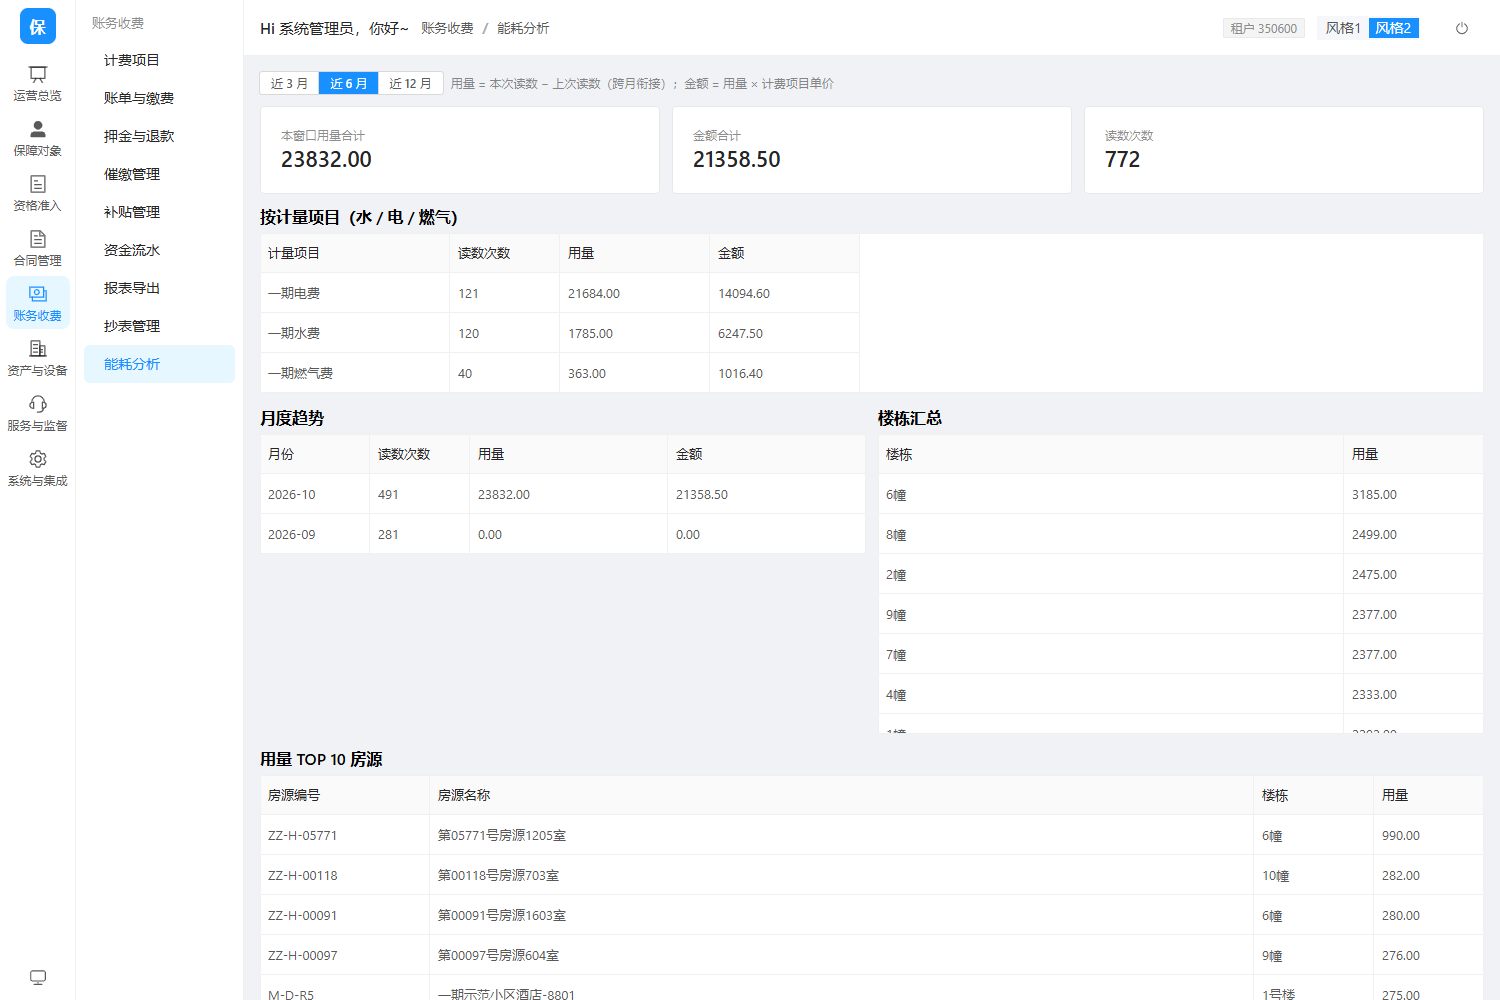
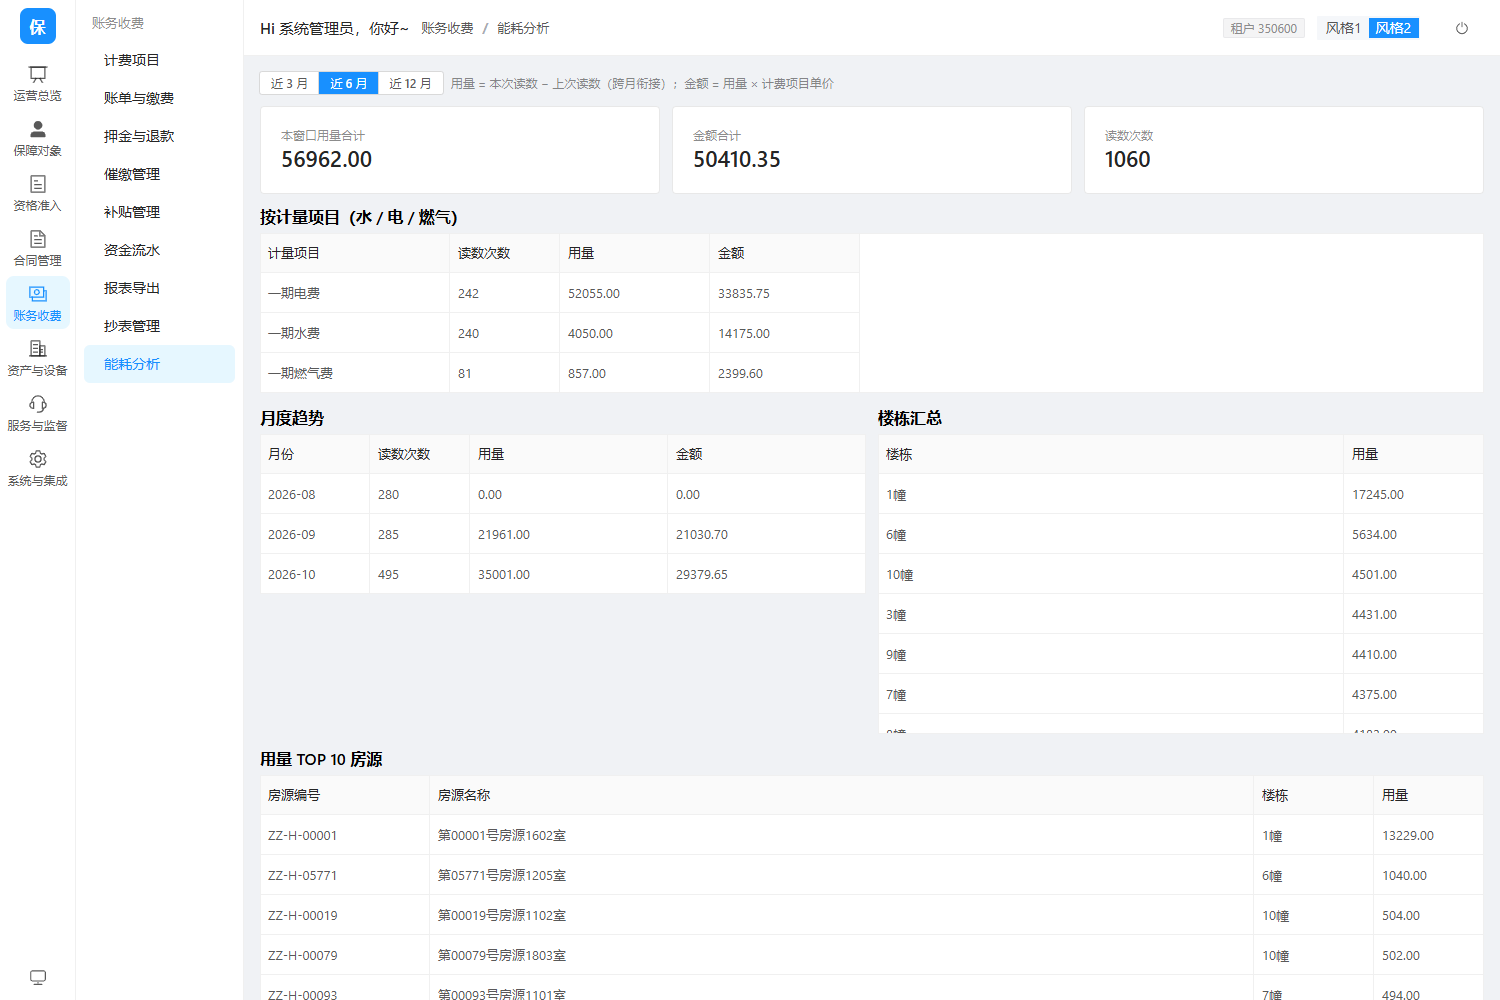
feat(metering): three-month reading series; sort trend months ascending

diff --git a/_验证/_seed_meter_3months.py b/_验证/_seed_meter_3months.py
@@ -1,0 +1,106 @@
+# -*- coding: utf-8 -*-
+"""三段式读数：8 月基线 → 9 月 → 10 月，让能耗趋势有三个点。
+
+口径：每月用量 = 本月读数 − 上月读数；8 月为首月（基线 0，用量 0）。
+"""
+import random
+import time
+
+import pymysql
+
+DB = dict(host='192.168.31.153', port=33306, user='root',
+          password='5677@Mysql', database='bp_platform', charset='utf8mb4')
+conn = pymysql.connect(**DB)
+cur = conn.cursor()
+
+cur.execute("""select id, item_code, item_name, unit_price from bp_fin_fee_item
+               where calc_mode='METER'""")
+items = {r[1]: r for r in cur.fetchall()}
+ELEC, WATER, GAS = items.get('ELEC-P1'), items.get('WATER-P1'), items.get('GAS-P1')
+if not (ELEC and WATER and GAS):
+    print('缺计量项')
+    raise SystemExit(1)
+
+# 清掉此前种的三类读数（只删我们种的）
+cur.execute("delete from bp_fin_meter_reading where create_by='seed'")
+print('清理旧读数:', cur.rowcount)
+
+cur.execute("""select h.id, h.house_code, min(m.device_id) as dev
+               from bp_asset_house h
+               join bp_dev_device m on m.space_id = h.space_id and m.device_type='ELEC_METER'
+               where m.device_id like 'DEMO-ELEC-%'
+               group by h.id, h.house_code limit 120""")
+houses = cur.fetchall()
+print('目标房源:', len(houses))
+
+M8 = '2026-08-25'
+M9 = '2026-09-25'
+M10 = '2026-10-25'
+NOW = time.strftime('%Y-%m-%d %H:%M:%S')
+
+seq = int(time.time() * 1000) % 10 ** 8
+
+
+def next_id():
+    global seq
+    seq += 1
+    return 600000000000000000 + seq
+
+
+def add(house_id, item, reading, day, device_id):
+    usage, amount = 0.0, 0.0
+    if day != M8:
+        cur.execute('''select reading from bp_fin_meter_reading
+                       where house_id=%s and fee_item_id=%s and read_date < %s
+                       order by read_date desc limit 1''', (house_id, item[0], day))
+        row = cur.fetchone()
+        base = float(row[0]) if row else 0.0
+        usage = max(0.0, float(reading) - base)
+        amount = usage * float(item[3] or 0)
+    cur.execute('''insert into bp_fin_meter_reading
+        (id, tenant_id, house_id, fee_item_id, reading, read_date, device_id,
+         usage_amount, amount, create_time, create_by)
+        values (%s,'350600',%s,%s,%s,%s,%s,%s,%s,%s,'seed')''',
+                (next_id(), house_id, item[0], reading, day, device_id,
+                 round(usage, 2), round(amount, 2), NOW))
+    return usage, amount
+
+
+stat = {'elec': [0, 0, 0], 'water': [0, 0, 0], 'gas': [0, 0, 0]}
+for hi, (house_id, house_code, elec_dev) in enumerate(houses):
+    # 电：8 月基线 0，9 月用量 u1，10 月再增 u2
+    u1 = random.randint(90, 240)
+    u2 = random.randint(90, 240)
+    add(house_id, ELEC, 0, M8, elec_dev)
+    add(house_id, ELEC, u1, M9, elec_dev)
+    add(house_id, ELEC, u1 + u2, M10, elec_dev)
+    stat['elec'][0] += 1 if u1 else 0
+
+    # 水
+    w1 = random.randint(8, 20)
+    w2 = random.randint(8, 20)
+    wdev = elec_dev.replace('ELEC', 'WATER')
+    add(house_id, WATER, 0, M8, wdev)
+    add(house_id, WATER, w1, M9, wdev)
+    add(house_id, WATER, w1 + w2, M10, wdev)
+
+    # 燃气（每 3 套 1 个）
+    if hi % 3 == 0:
+        g1 = random.randint(4, 12)
+        g2 = random.randint(4, 12)
+        gdev = elec_dev.replace('ELEC', 'GAS')
+        add(house_id, GAS, 0, M8, gdev)
+        add(house_id, GAS, g1, M9, gdev)
+        add(house_id, GAS, g1 + g2, M10, gdev)
+
+conn.commit()
+
+print('\n按月汇总：')
+cur.execute('''select substring(m.read_date,1,7) as mon, count(*),
+                      round(sum(m.usage_amount),2), round(sum(m.amount),2)
+               from bp_fin_meter_reading m
+               group by mon order by mon''')
+for mon, cnt, usage, amt in cur.fetchall():
+    print('  %s  读数 %3d  用量 %-10s 金额 %s' % (mon, cnt, usage, amt))
+
+conn.close()

diff --git a/backend/src/main/java/com/yundao/bp/fin/service/impl/MeterReadingServiceImpl.java b/backend/src/main/java/com/yundao/bp/fin/service/impl/MeterReadingServiceImpl.java
@@ -295,6 +295,9 @@ public class MeterReadingServiceImpl implements MeterReadingService {
             buildingRows.add(m);
         }
 
+        monthRows.sort((a, b) -> String.valueOf(a.get("month"))
+                .compareTo(String.valueOf(b.get("month"))));
+
         java.util.Map<String, Object> out = new java.util.LinkedHashMap<>();
         out.put("months", monthRows);
         out.put("topHouses", topHouses);
